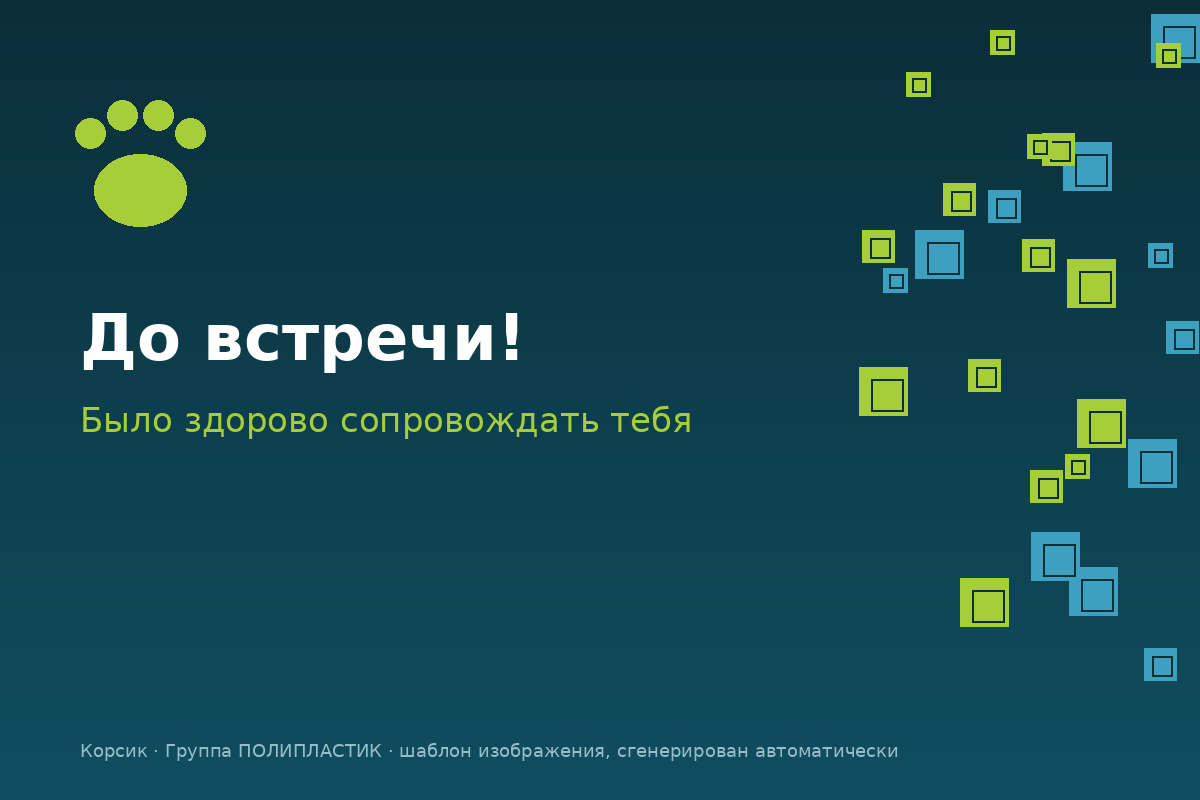
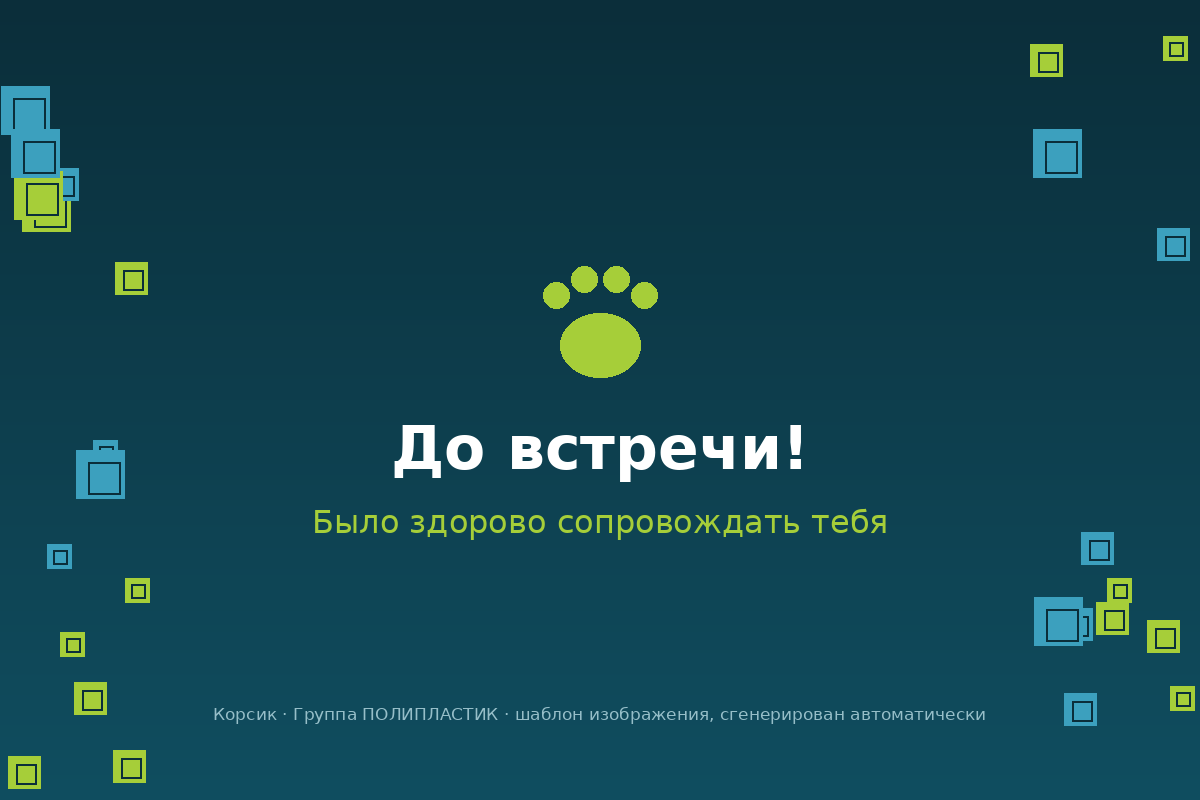
Держать текст картинок MAX в безопасной зоне

diff --git a/backend/scripts/make_media.py b/backend/scripts/make_media.py
@@ -14,6 +14,10 @@ OUT = Path(__file__).resolve().parents[1] / "media"
 FONT = "/usr/share/fonts/truetype/dejavu/DejaVuSans.ttf"
 FONT_BOLD = "/usr/share/fonts/truetype/dejavu/DejaVuSans-Bold.ttf"
 W, H = 1200, 800
+# MAX обрезает картинку под форму пузыря: в узком (до 1:1) срезает бока, в широком (до 1,75:1) — верх и низ.
+# Текст и знак держим внутри этих полей, по краям — только декор.
+SAFE_X, SAFE_Y = 210, 70
+FOOTER = "Корсик · Группа ПОЛИПЛАСТИК · шаблон изображения, сгенерирован автоматически"
 DARK, DARK2, LIME, WHITE = (11, 46, 58), (16, 78, 96), (166, 206, 57), (255, 255, 255)
 
 CARDS = {
@@ -53,9 +57,10 @@ def background(seed: int) -> Image.Image:
         t = y / H
         d.line([(0, y), (W, y)], fill=tuple(int(a + (b - a) * t) for a, b in zip(DARK, DARK2, strict=True)))
     rnd = random.Random(seed)
-    for _ in range(26):  # «воксели» в стиле айдентики хакатона
+    for _ in range(26):  # «воксели» в стиле айдентики хакатона — в боковых полосах, которые не жалко обрезать
         s = rnd.choice([24, 32, 48])
-        x, y = rnd.randrange(int(W * 0.7), W - s), rnd.randrange(0, H - 100 - s)
+        x = rnd.choice([rnd.randrange(0, SAFE_X - 40 - s), rnd.randrange(W - SAFE_X + 40, W - s)])
+        y = rnd.randrange(0, H - s)
         color = LIME if rnd.random() < 0.6 else (60, 160, 190)
         d.rectangle([x, y, x + s, y + s], fill=color)
         d.rectangle([x + s // 4, y + s // 4, x + s - 4, y + s - 4], outline=DARK, width=2)
@@ -69,30 +74,42 @@ def paw(d: ImageDraw.ImageDraw, cx: int, cy: int, r: int) -> None:
         d.ellipse([tx - r // 3, ty - r // 3, tx + r // 3, ty + r // 3], fill=LIME)
 
 
+def wrap(d: ImageDraw.ImageDraw, text: str, font: ImageFont.FreeTypeFont, width: int) -> list[str]:
+    """Перенос по ширине в пикселях: число букв не учитывает разную ширину символов."""
+    lines, cur = [], ""
+    for word in text.split():
+        probe = f"{cur} {word}".strip()
+        if cur and d.textlength(probe, font=font) > width:
+            lines.append(cur)
+            cur = word
+        else:
+            cur = probe
+    return [*lines, cur]
+
+
 def card(name: str, title: str, subtitle: str, seed: int) -> None:
     img = background(seed)
     d = ImageDraw.Draw(img)
-    paw(d, 140, 190, 46)
+    width = W - 2 * (SAFE_X + 30)  # ещё поле, чтобы текст не упирался в край даже в квадратном пузыре
+    big, small = ImageFont.truetype(FONT_BOLD, 60), ImageFont.truetype(FONT, 32)
+    titles, subtitles = wrap(d, title, big, width), wrap(d, subtitle, small, width)
+    block = 125 + 36 + 74 * len(titles) + 16 + 44 * len(subtitles)  # знак, отступ, заголовок, подпись
+    y = (H - block) // 2
+    paw(d, W // 2, y + 93, 40)
+    y += 125 + 36
+    for line in titles:
+        d.text((W // 2, y), line, font=big, fill=WHITE, anchor="ma")
+        y += 74
+    y += 16
+    for line in subtitles:
+        d.text((W // 2, y), line, font=small, fill=LIME, anchor="ma")
+        y += 44
     d.text(
-        (80, 300),
-        "\n".join(textwrap.wrap(title, 20)),
-        font=ImageFont.truetype(FONT_BOLD, 64),
-        fill=WHITE,
-        spacing=10,
-    )
-    lines = textwrap.wrap(subtitle, 34)
-    d.text(
-        (80, 300 + 80 * len(textwrap.wrap(title, 20)) + 20),
-        "\n".join(lines),
-        font=ImageFont.truetype(FONT, 34),
-        fill=LIME,
-        spacing=8,
-    )
-    d.text(
-        (80, H - 60),
-        "Корсик · Группа ПОЛИПЛАСТИК · шаблон изображения, сгенерирован автоматически",
-        font=ImageFont.truetype(FONT, 18),
+        (W // 2, H - SAFE_Y - 10),
+        FOOTER,
+        font=ImageFont.truetype(FONT, 17),
         fill=(150, 190, 200),
+        anchor="ms",
     )
     img.save(OUT / name)
 
